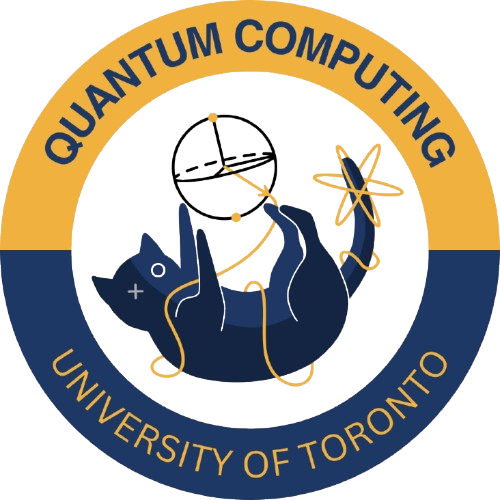
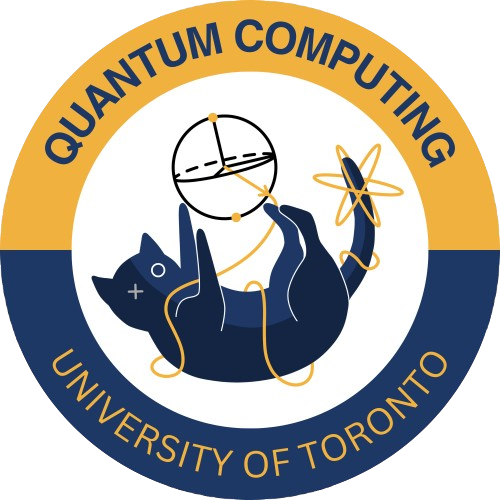
hero section upgrade

diff --git a/styles.css b/styles.css
@@ -77,20 +77,30 @@ h1, h2, h3 {
     display: flex;
     align-items: center;
     justify-content: space-between;
-    padding: 4% 7% 4% 10%;
-    gap: 30px;
-    background: var(--text);
-    color: #ffffff;
+    gap: 70px;
+    padding: 60px 8%;
+    background-image:
+        linear-gradient(rgba(0, 0, 0, 0.65), var(--text)),
+        url('assets/qubits.gif');
+
+    background-size: cover;
+    background-position: center;
+    background-repeat: no-repeat;
+    color: var(--background);
     overflow: hidden;
-    margin-left: 2;
+}
+
+.hero-content {
+    flex: 0 1 700px;
+    text-align: center;
 }
 
 .hero h1 {
     font-family: "Quantico", sans-serif;
-    font-size: 4.5rem;
+    font-size: 4rem;
     line-height: 0.98;
     font-weight: 600;
-    margin: 0 2;
+    margin: 0;
 }
 
 .hero p {
@@ -98,30 +108,21 @@ h1, h2, h3 {
     font-size: 1.6rem;
     line-height: 1.6;
     color: #d9d2d2;
-    margin: 0 2;
-    margin-bottom: 2rem;
-}
-
-.hero p {
-    font-family: "Space Grotesk", sans-serif;
-    font-size: 1.6rem;
-    line-height: 1.6;
-    color: #d9d2d2;
-    margin: 0 2;
-    margin-bottom: 2rem;
+    margin: 25px 0 0;
+    text-align: center;
 }
 
 .hero-image {
-    width: 50%;
+    flex: 0 0 380px;
     display: flex;
     justify-content: center;
     align-items: center;
-    position: relative;
 }
 
 .hero-image img {
-    max-width: 80%;
+    width: 100%;
     height: auto;
+    display: block;
 }
 
 @media (max-width: 768px) {

diff --git a/index.html b/index.html
@@ -35,13 +35,13 @@
     </nav>
 
 <section class="hero">
+    <div class="hero-image">
+        <img src="assets/utqc-badge-removebg.png" alt="Quantum computer">
+    </div>
     <div class="hero-content">
-        <h1>UofT <br> Quantum <br> Computing <br> Club</h1>
+        <h1>University of Toronto Quantum Computing Club</h1>
         <br>
         <p>From the ground (state) up</p>
-    </div>
-    <div class="hero-image">
-        <img src="assets/quant_comp_logo.png" alt="Quantum computer">
     </div>
 </section>
 <br>
